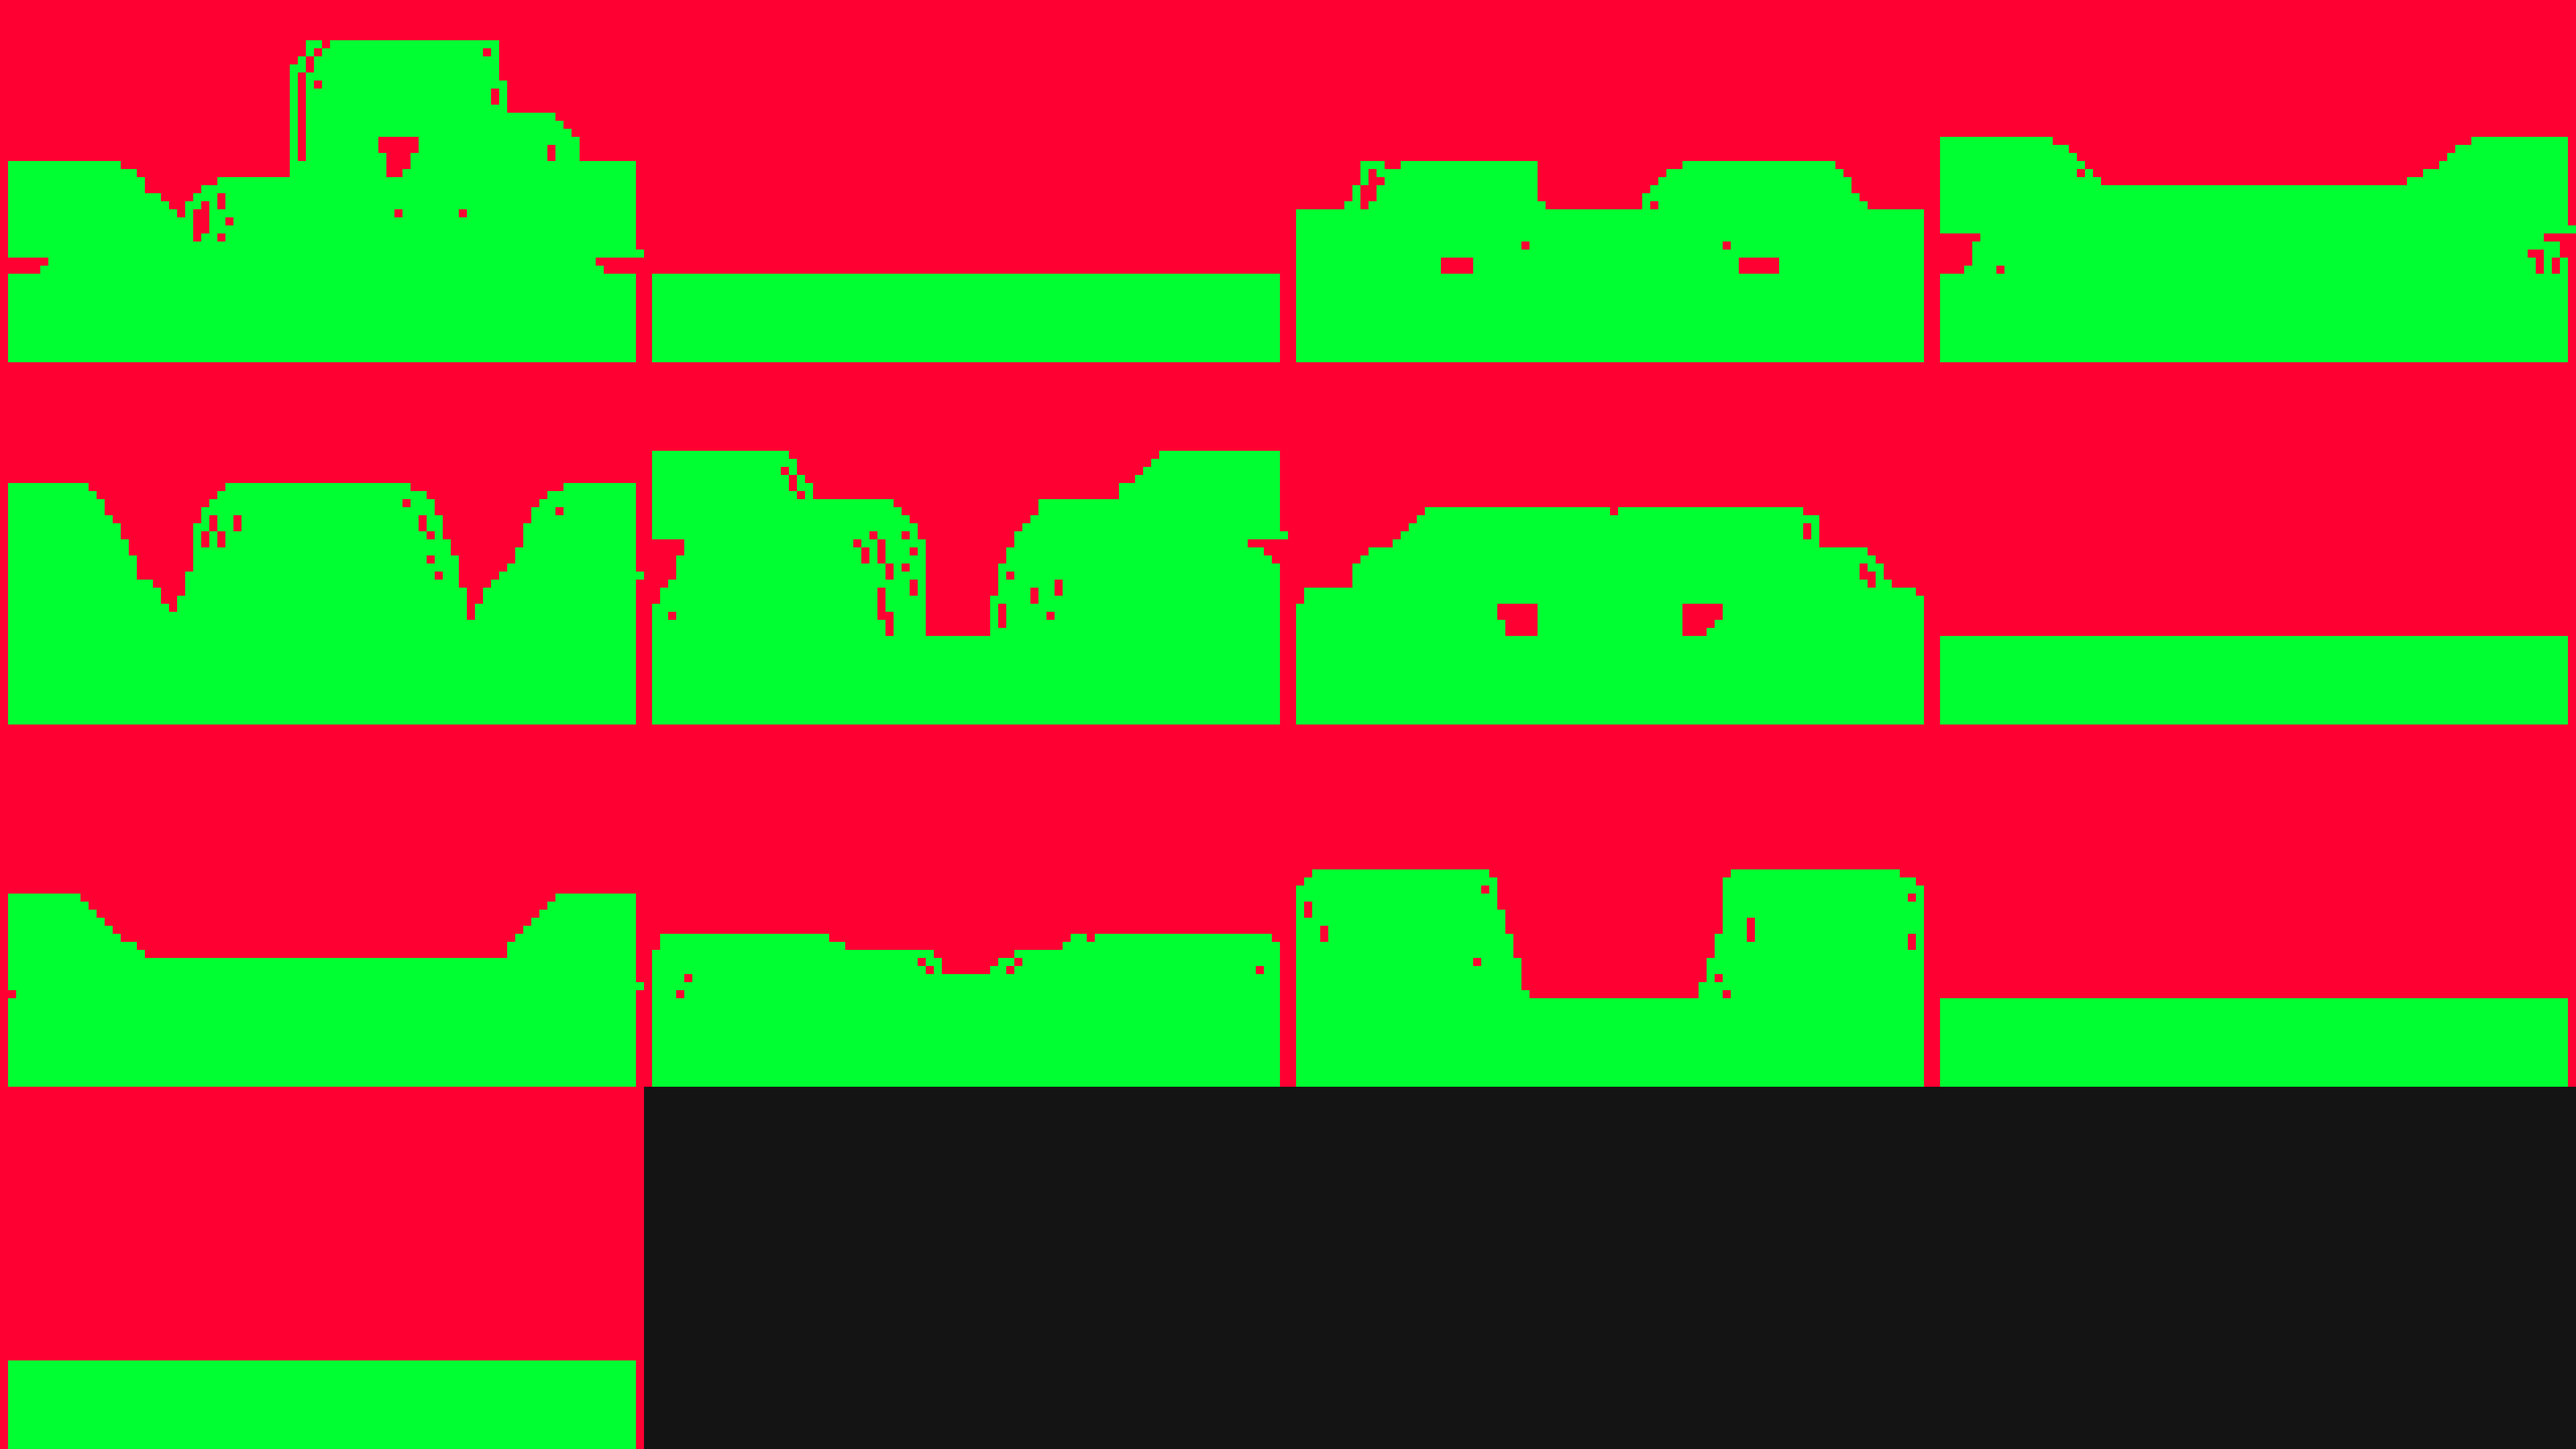
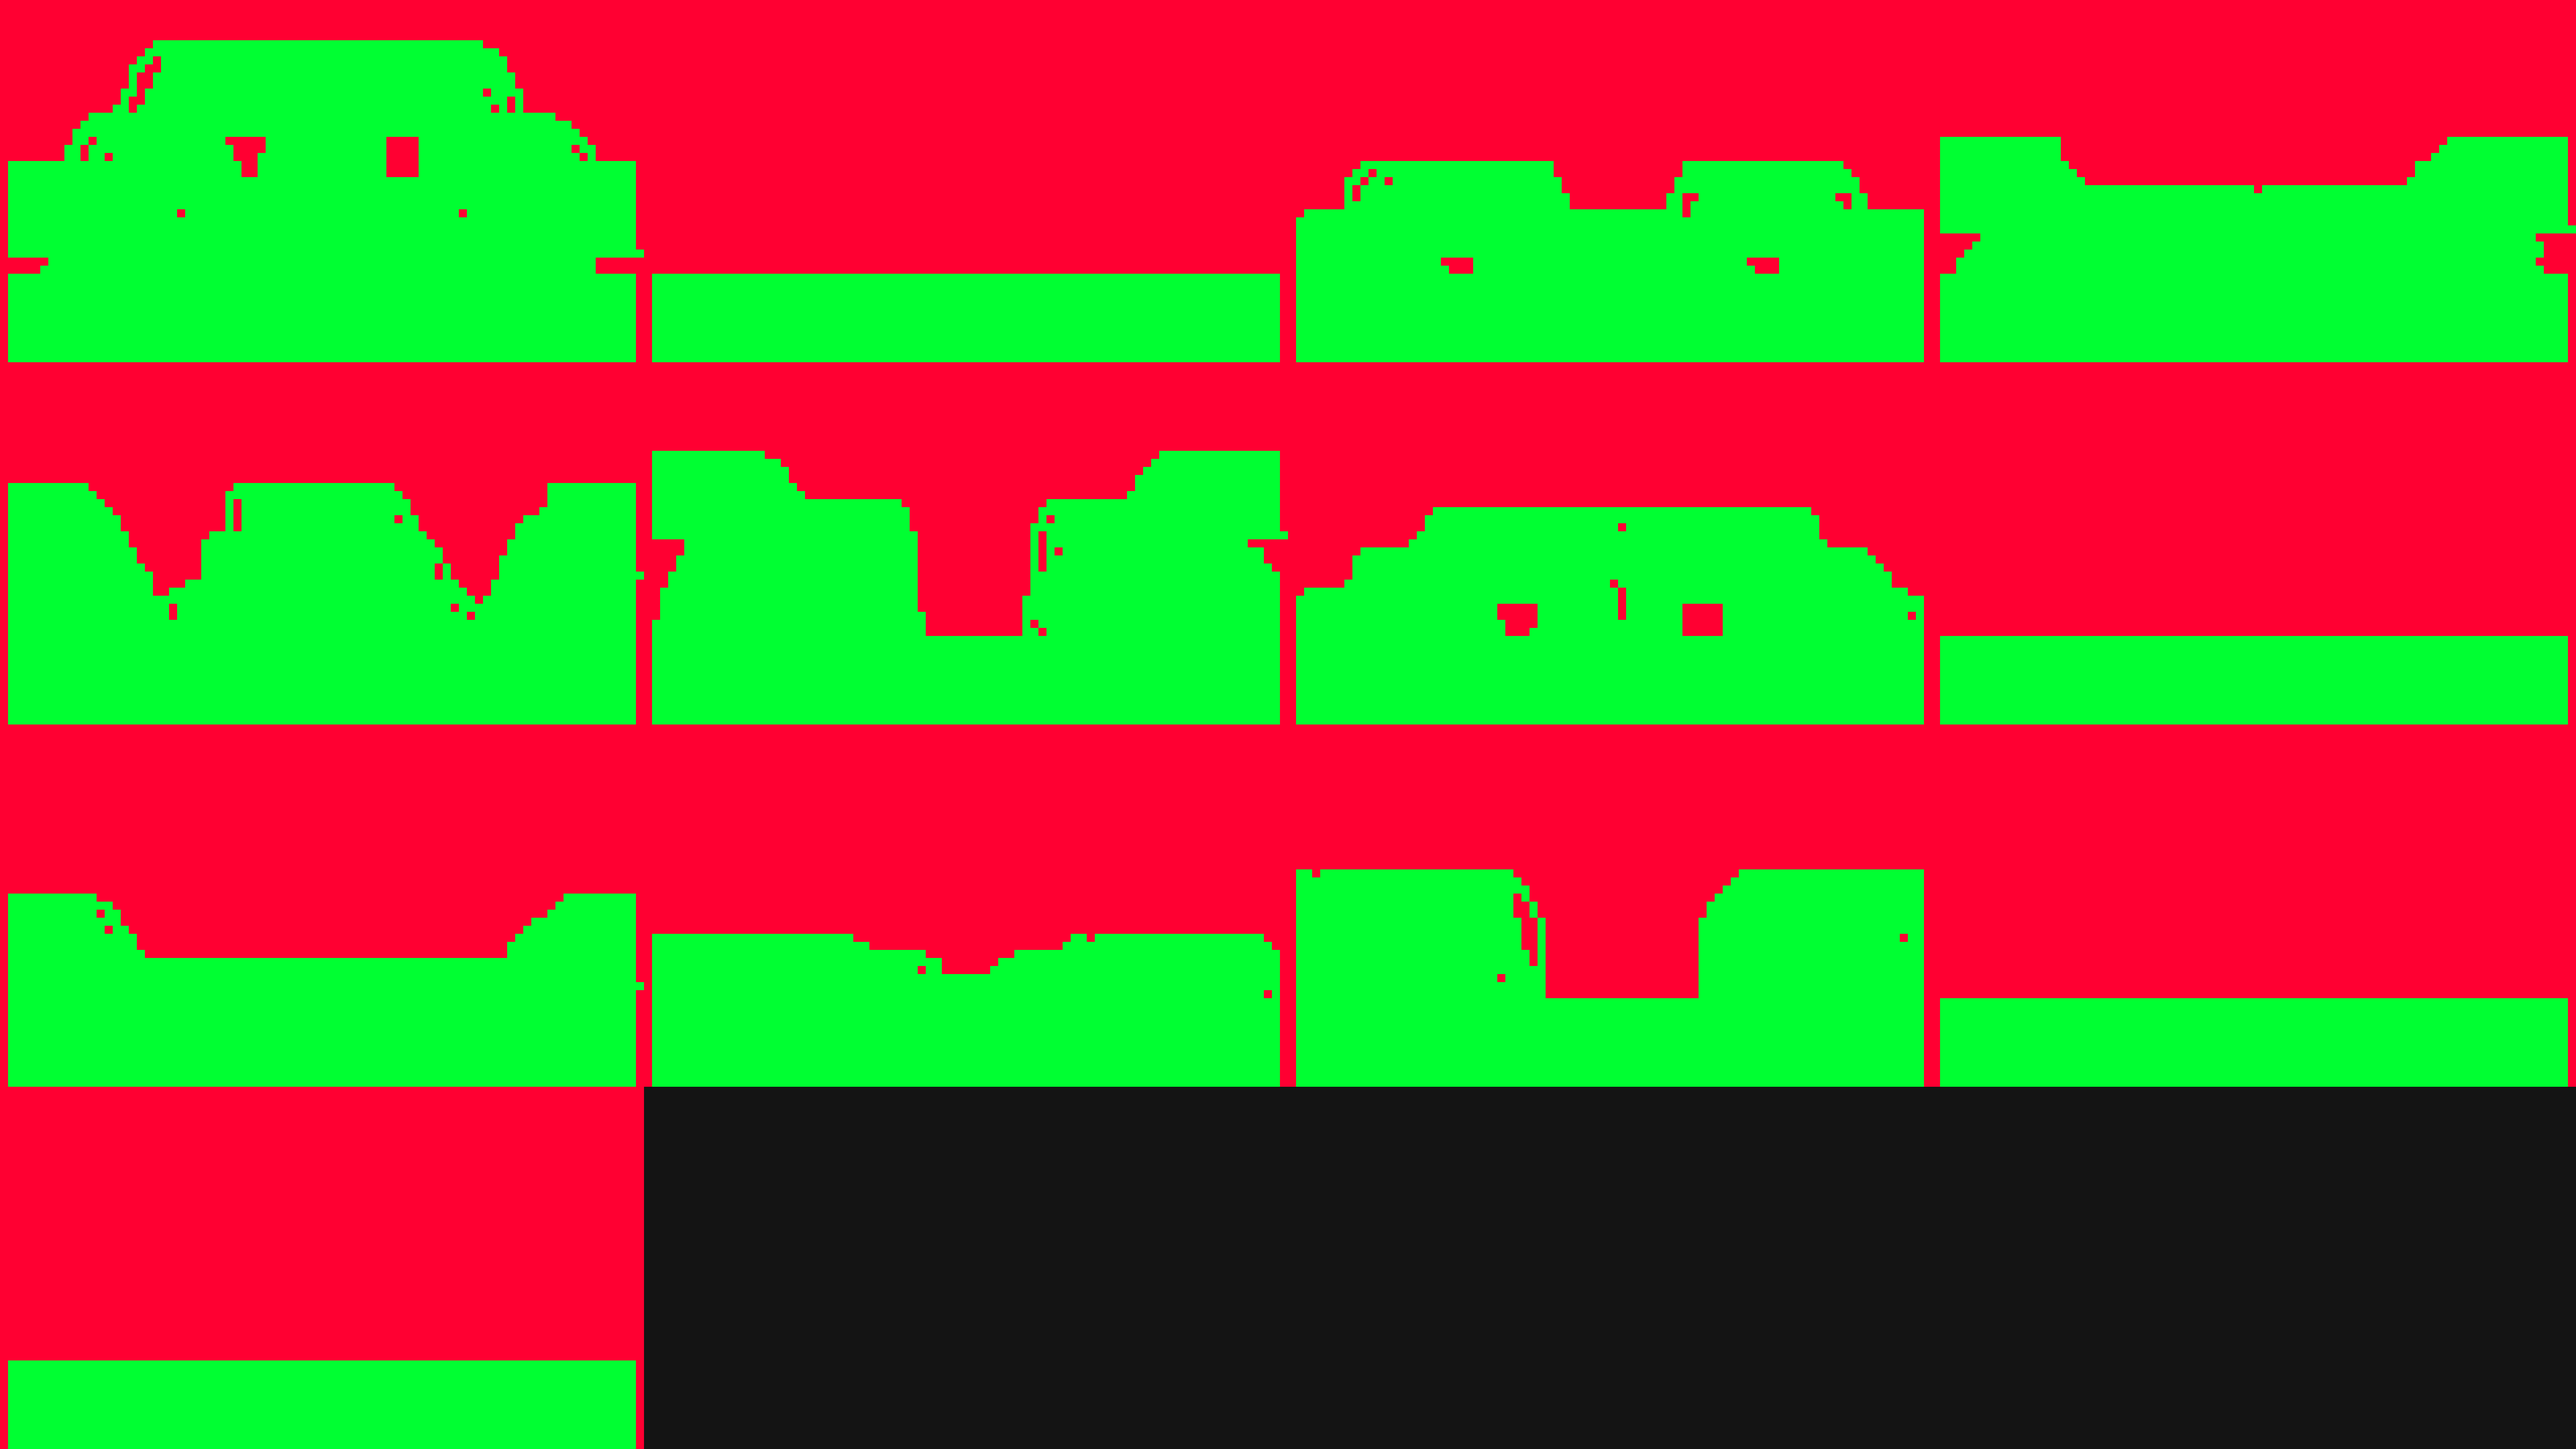
heatmap reachability check on startup

diff --git a/docs/dev/heatmap_audit.md b/docs/dev/heatmap_audit.md
@@ -42,6 +42,14 @@ Read the generated heatmap PNG to verify:
 
 ## Reachability Heatmap
 
+### Quick Verification
+
+```bash
+cargo run --bin verify_reachability
+```
+
+This binary validates all reachability heatmaps exist and have varied data. It's also run automatically at the end of `scripts/setup.sh`.
+
 ### Basic Reachability
 
 ```bash
